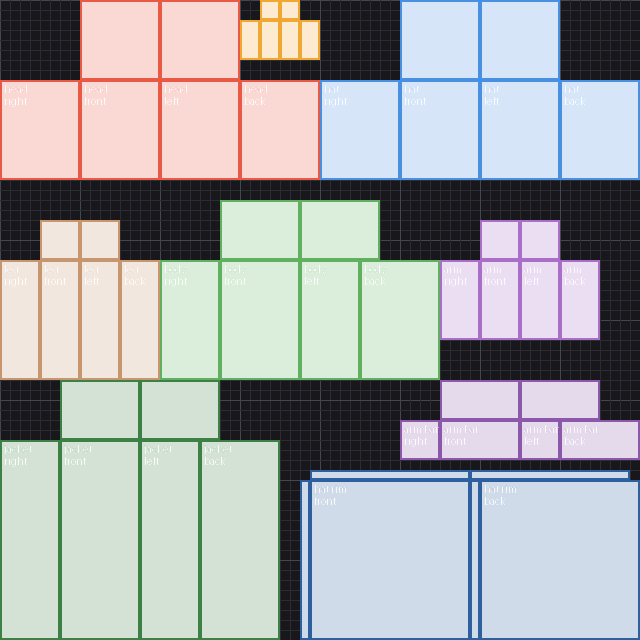
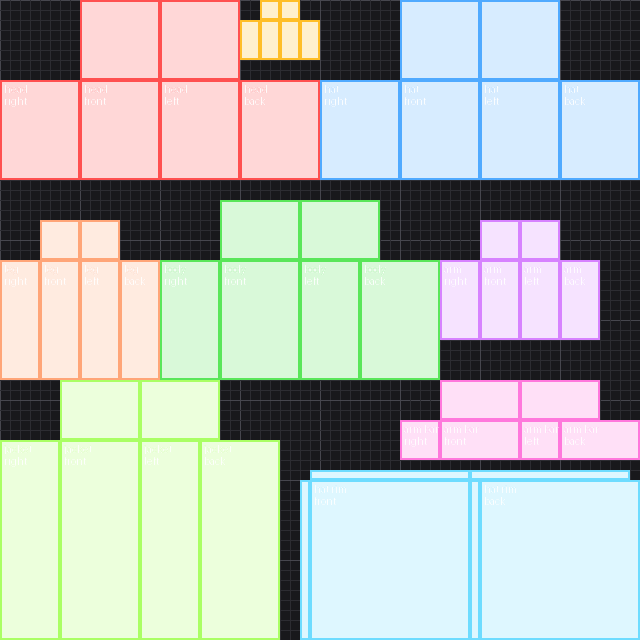
A UV map at the size of the texture, for painting against
The ten-times map is for reading. This one is for working: 64x64, exactly the size of
the sheet, so it drops into Aseprite as a layer directly over the texture with one
guide pixel per texture pixel and can be toggled off to see the art alone.

Outlines only, no fill. Every pixel it covers is a pixel somebody wants to paint, so it
marks the seams and leaves the middles empty. Adjacent faces share a border, which is
not a rounding error - those pixels are the seam between two faces of the model, and a
stroke that runs across one lands on both.

Brighter colours than the big map, because this one sits on top of the cloth rather
than beside it and a dark outline over dark cloth is not a guide.

Generated from the same box list as the other picture, so the two cannot drift.

Claude-Session: https://claude.ai/code/session_01XX98me4CmtQm6oB1SDpvov

diff --git a/tools/villager_guide.py b/tools/villager_guide.py
@@ -10,6 +10,10 @@ all until the model turns round.
 The numbers below are copied from 1.21.1's VillagerModel and nothing else. Re-run this if
 the model ever changes; do not hand-correct the picture.
 
+Two pictures come out of it. The big one is for reading; the 64x64 one is for working -
+it drops into Aseprite as a layer directly over the texture, one guide pixel per texture
+pixel, and can be toggled off to see the art underneath.
+
     python3 tools/villager_guide.py
 """
 from PIL import Image, ImageDraw
@@ -18,15 +22,15 @@ SIZE, SCALE = 64, 10
 
 # name -> (texOffs u, v, width, height, depth), straight out of VillagerModel
 PARTS = [
-    ("head",     0,  0,  8, 10, 8, (232,  90,  70)),
-    ("hat",     32,  0,  8, 10, 8, ( 74, 144, 226)),
-    ("hat rim", 30, 47, 16, 16, 1, ( 46,  96, 160)),
-    ("nose",    24,  0,  2,  4, 2, (240, 168,  50)),
-    ("body",    16, 20,  8, 12, 6, ( 96, 176,  96)),
-    ("jacket",   0, 38,  8, 20, 6, ( 60, 128,  70)),
-    ("arm",     44, 22,  4,  8, 4, (168, 110, 200)),
-    ("arm bar", 40, 38,  8,  4, 4, (140,  88, 170)),
-    ("leg",      0, 22,  4, 12, 4, (200, 150, 110)),
+    ("head",     0,  0,  8, 10, 8, (255,  80,  80)),
+    ("hat",     32,  0,  8, 10, 8, ( 80, 170, 255)),
+    ("hat rim", 30, 47, 16, 16, 1, (110, 220, 255)),
+    ("nose",    24,  0,  2,  4, 2, (255, 190,  40)),
+    ("body",    16, 20,  8, 12, 6, ( 90, 230,  90)),
+    ("jacket",   0, 38,  8, 20, 6, (170, 255, 100)),
+    ("arm",     44, 22,  4,  8, 4, (215, 130, 255)),
+    ("arm bar", 40, 38,  8,  4, 4, (255, 120, 220)),
+    ("leg",      0, 22,  4, 12, 4, (255, 165, 120)),
 ]
 
 def faces(u, v, w, h, d):
@@ -60,11 +64,30 @@ def main():
                 draw.text((box[0] + 4, box[1] + 15), face, fill=(255, 255, 255, 150))
     img.save("art/villager/uv-guide.png")
     print("art/villager/uv-guide.png")
+    overlay()
 
     # And the same rectangles as numbers, for anyone reading rather than looking.
     for name, u, v, w, h, d, _ in PARTS:
         where = "  ".join(f"{f}({x},{y}) {fw}x{fh}" for f, x, y, fw, fh in faces(u, v, w, h, d))
         print(f"{name:9} texOffs({u},{v}) {w}x{h}x{d}\n          {where}")
+
+def overlay():
+    """The same map at 1:1, as an outline over nothing.
+
+    <p>Outlines only and no fill, because this one goes on top of the art rather than beside
+    it: every pixel it covers is a pixel somebody wants to paint, so it marks the seams and
+    leaves the middles alone. Adjacent faces share a border, which is not a rounding error -
+    those pixels really are the seam between two faces of the model, and a stroke that runs
+    across one lands on both.
+    """
+    img = Image.new("RGBA", (SIZE, SIZE), (0, 0, 0, 0))
+    draw = ImageDraw.Draw(img)
+    for name, u, v, w, h, d, color in PARTS:
+        for face, fx, fy, fw, fh in faces(u, v, w, h, d):
+            draw.rectangle([fx, fy, fx + fw - 1, fy + fh - 1], outline=color + (255,))
+    img.save("art/villager/uv-overlay-64.png")
+    print("art/villager/uv-overlay-64.png")
+
 
 if __name__ == "__main__":
     main()

diff --git a/art/villager/README.md b/art/villager/README.md
@@ -17,12 +17,18 @@ biome, and the profession layer goes over the top of it.
 
 ## Where each part of the sheet lands
 
-`art/villager/uv-guide.png` is the map, at ten times size with a pixel grid. Open it as a
-layer under the texture and paint by looking.
+Two pictures, both generated by `tools/villager_guide.py` from the box list below, which it
+reads straight out of 1.21.1's `VillagerModel.createBodyModel()`. If the model ever changes,
+re-run the script rather than correcting a picture by hand.
 
-It is generated, not drawn: `tools/villager_guide.py` reads the box list below straight out
-of 1.21.1's `VillagerModel.createBodyModel()`. If the model ever changes, re-run the script
-rather than correcting the picture by hand.
+- **`uv-overlay-64.png`** is the working one: 64x64, exactly the size of the texture, outlines
+  only and transparent everywhere else. Open the texture in Aseprite, `File > Import Layer`
+  (or just drag it in) and put this on top - one guide pixel per texture pixel, so the seams
+  land where they really are. Toggle the layer off to see the art alone. Adjacent faces share
+  a border, which is not a rounding error: those pixels are the seam between two faces of the
+  model, and a stroke across one lands on both.
+- **`uv-guide.png`** is the same map at ten times size with labels and a pixel grid, for
+  reading rather than painting.
 
 Every cube at `texOffs(u, v)` with size `(w, h, d)` claims six rectangles around that corner,
 always in this arrangement:
